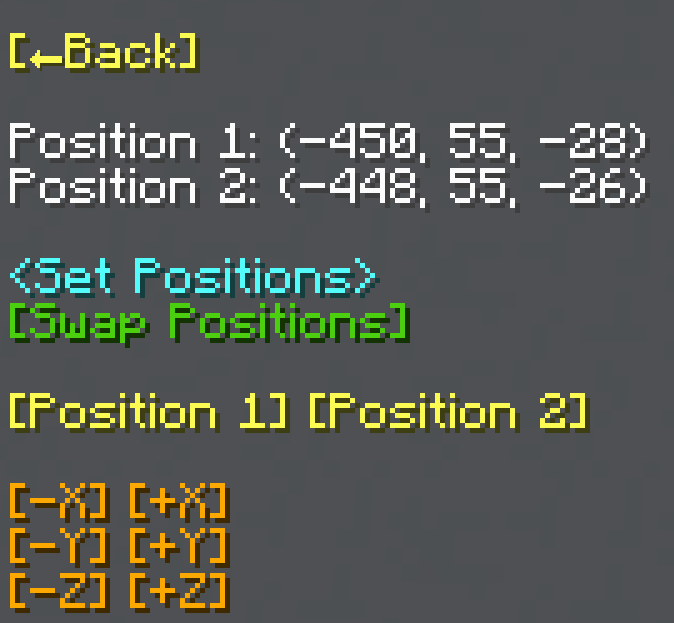
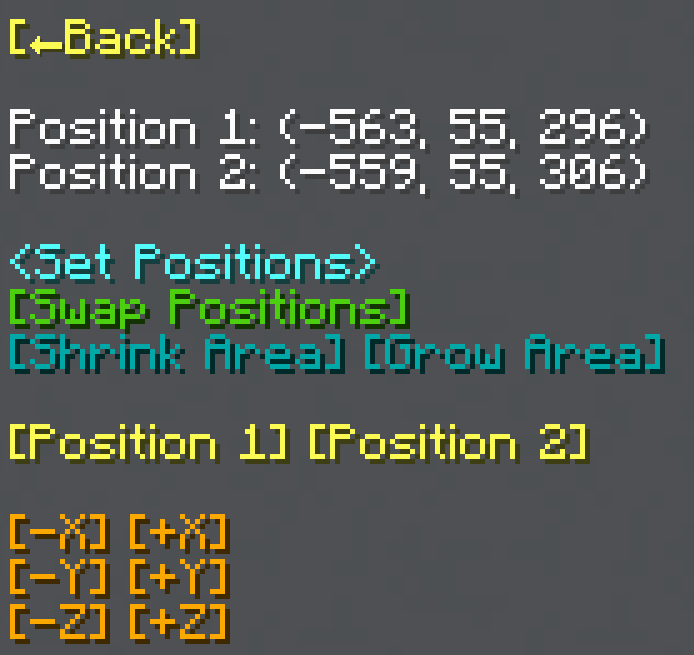
Updated Adjust Positions menu info

diff --git a/docs/general-tool/options.md b/docs/general-tool/options.md
@@ -57,6 +57,8 @@ The <MCFont color="aqua">&lt;Set Positions&gt;</MCFont> button opens a menu prom
 
 <MCFont color="#4cd10f">[Swap Positions]</MCFont> swaps both positions, in case you need that.
 
+With the <MCFont color="dark_aqua">[Shrink Area]</MCFont> and <MCFont color="dark_aqua">[Grow Area]</MCFont> buttons, you can move both positions inwards or outwards 1 block at a time.
+
 ### Nudging
 The <MCFont color="yellow">[Position 1]</MCFont> and <MCFont color="yellow">[Position 2]</MCFont> buttons toggle nudging each position. You can choose to nudge both positions 1 and 2, or only one of them.
 #
